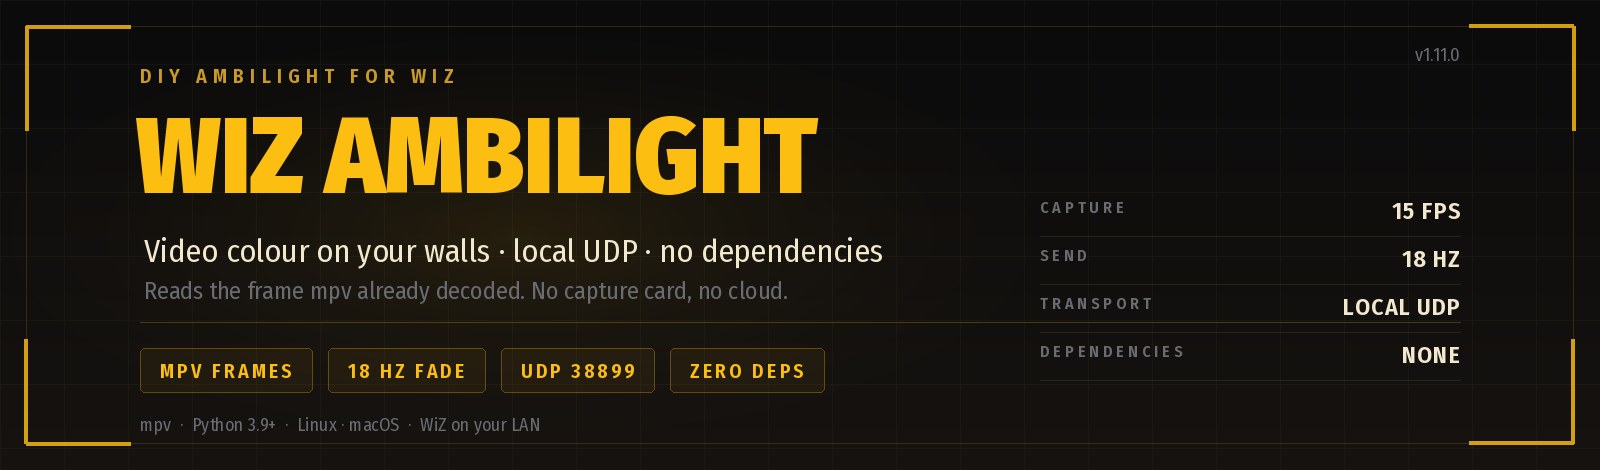
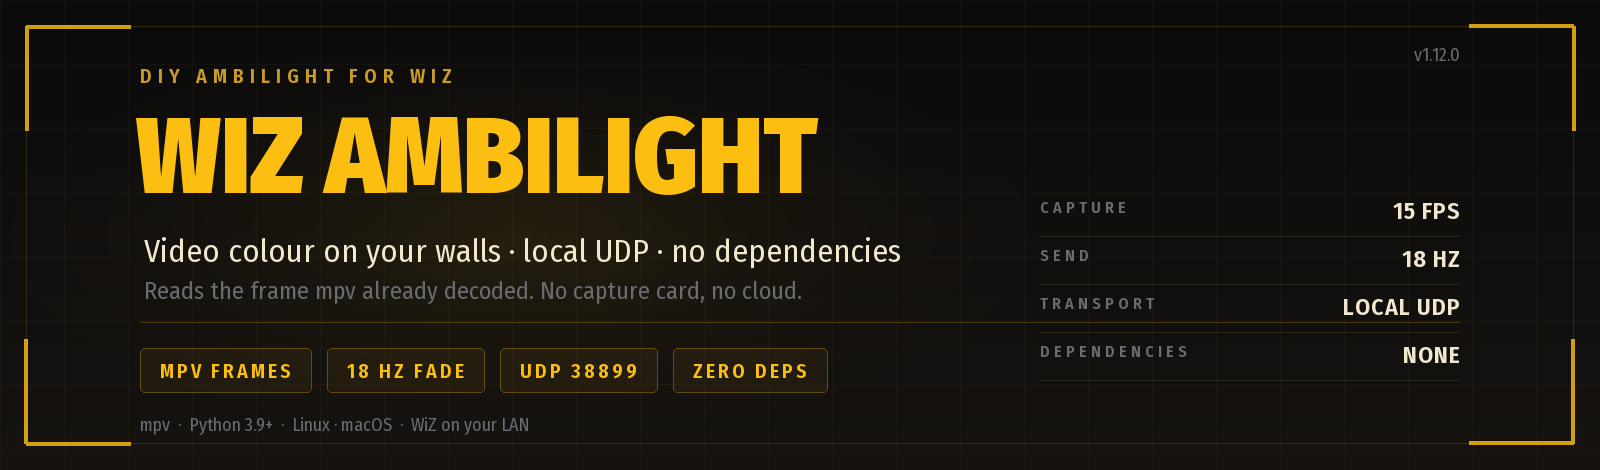
release: v1.12.0
Bump VERSION, close the 1.12.0 CHANGELOG section, regenerate the banner with the new version chip and point the README at it.

diff --git a/assets/banner.py b/assets/banner.py
@@ -232,7 +232,7 @@ STRIPS = (
 def main():
     p = argparse.ArgumentParser()
     p.add_argument("--out", type=Path, default=HERE)
-    p.add_argument("--version", default="v1.11.0")
+    p.add_argument("--version", default="v1.12.0")
     a = p.parse_args()
     a.out.mkdir(parents=True, exist_ok=True)
     hero(a.out / "banner.png", a.version)

diff --git a/mpv_ambilight.py b/mpv_ambilight.py
@@ -54,7 +54,7 @@ import time
 from collections import deque
 from pathlib import Path
 
-VERSION = "1.11.0"
+VERSION = "1.12.0"
 DEFAULT_PORT = 38899
 ZONE_NAMES = {"all", "left", "right", "top", "bottom", "t1", "t2", "t3"}
 

diff --git a/README.md b/README.md
@@ -4,7 +4,7 @@
 [![license: MIT](https://img.shields.io/badge/license-MIT-blue.svg)](LICENSE)
 [![python: 3.9+](https://img.shields.io/badge/python-3.9%2B-blue.svg)](https://www.python.org/)
 
-![WIZ AMBILIGHT banner: amber title over a charcoal HUD grid, with tags for MPV frames, 18 Hz fade, UDP 38899 and zero dependencies](assets/banner.png?v=1.11.0)
+![WIZ AMBILIGHT banner: amber title over a charcoal HUD grid, with tags for MPV frames, 18 Hz fade, UDP 38899 and zero dependencies](assets/banner.png?v=1.12.0)
 
 `wiz-ambilight` reads the video frame mpv is already decoding and paints the
 edges of the picture onto WiZ bulbs over your local network. No capture card,

diff --git a/CHANGELOG.md b/CHANGELOG.md
@@ -4,6 +4,8 @@ Releases before 1.4.0 were never tagged; their history is in `git log`.
 
 ## Unreleased
 
+## 1.12.0 - 2026-11-24
+
 - **Graphic EQ:** each band now has a **shape** instead of only a bell. `bell`
   stays the default, and `bandpass`, `lowpass`, `highpass`, `notch` and `flat`
   let a band isolate the part of the mix it should hear, Pro-Q3 style. The

diff --git a/docs/development.md b/docs/development.md
@@ -429,7 +429,7 @@ the sender off the network.
 
 ```bash
 python3 assets/banner.py            # rewrite the hero and the section strips
-python3 assets/banner.py --version v1.11.0
+python3 assets/banner.py --version v1.12.0
 ```
 
 `assets/banner.py` needs Pillow and numpy; neither is imported at playback
